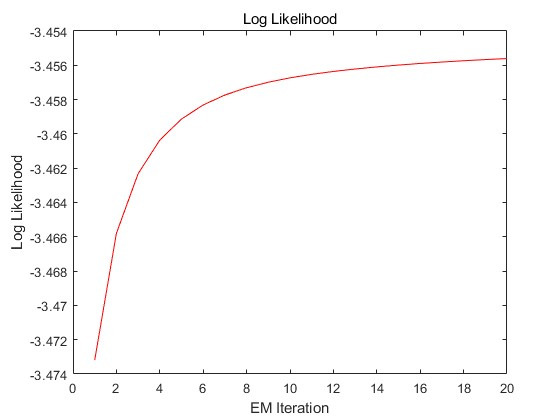
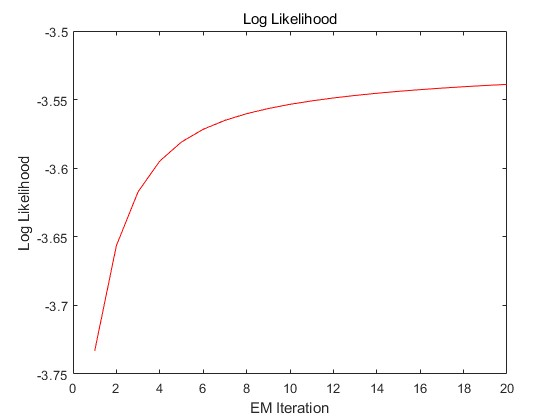
Averaging bug correction

diff --git a/main.m b/main.m
@@ -49,10 +49,10 @@ clear
 clc
 
 %% Initialize
-gain = [0.1 0.5 1 1.5 2];                   % Gains 0.1 to 2
+gain = [0.1 1 5 10];                        % Gains 0.1 to 10
 max_gain_stages = length(gain);
 num_iter = 20;                              % Iteration Number
-monte = 200;                                % Montecarlo Number
+monte = 10000;                              % Montecarlo Number
 n = 9;                                      % A matrix length n
 m = 16;                                     % A matrix length m
 
@@ -84,7 +84,7 @@ disp(A);
 
 %% True data and Poisson noise for absorption coefs
 % Create Noised Observation
-base_value = unifrnd(200, 500, [n, 1]);     % Base parameter vector
+base_value = unifrnd(0, 1000, [n, 1]);      % Base parameter vector
 x = gain(1)*base_value;                     % True parameter vector
 y = sum(poissrnd(A.*x'), 2);                % Observation vector
 
@@ -114,11 +114,11 @@ for gain_val = 1:max_gain_stages
             likelihood(k, iter) =  sum(-lambda + y.*log(lambda) - log_factorial_y);
             
             % Compute EM algorithm to get a new lambda
-            X = EM_algorithm(A, y, X)';       
+            X = EM_algorithm(A, y, X)';
             
             % Compute MSE
             error = x-X;
-            MSE(k, iter) = mean(error'*error);
+            MSE(k, iter) = mean(error.^2);
 
             % Re-calculate CRLB
             CRLB_par = diag(inv(A'*diag(1./(A*X))*A));
